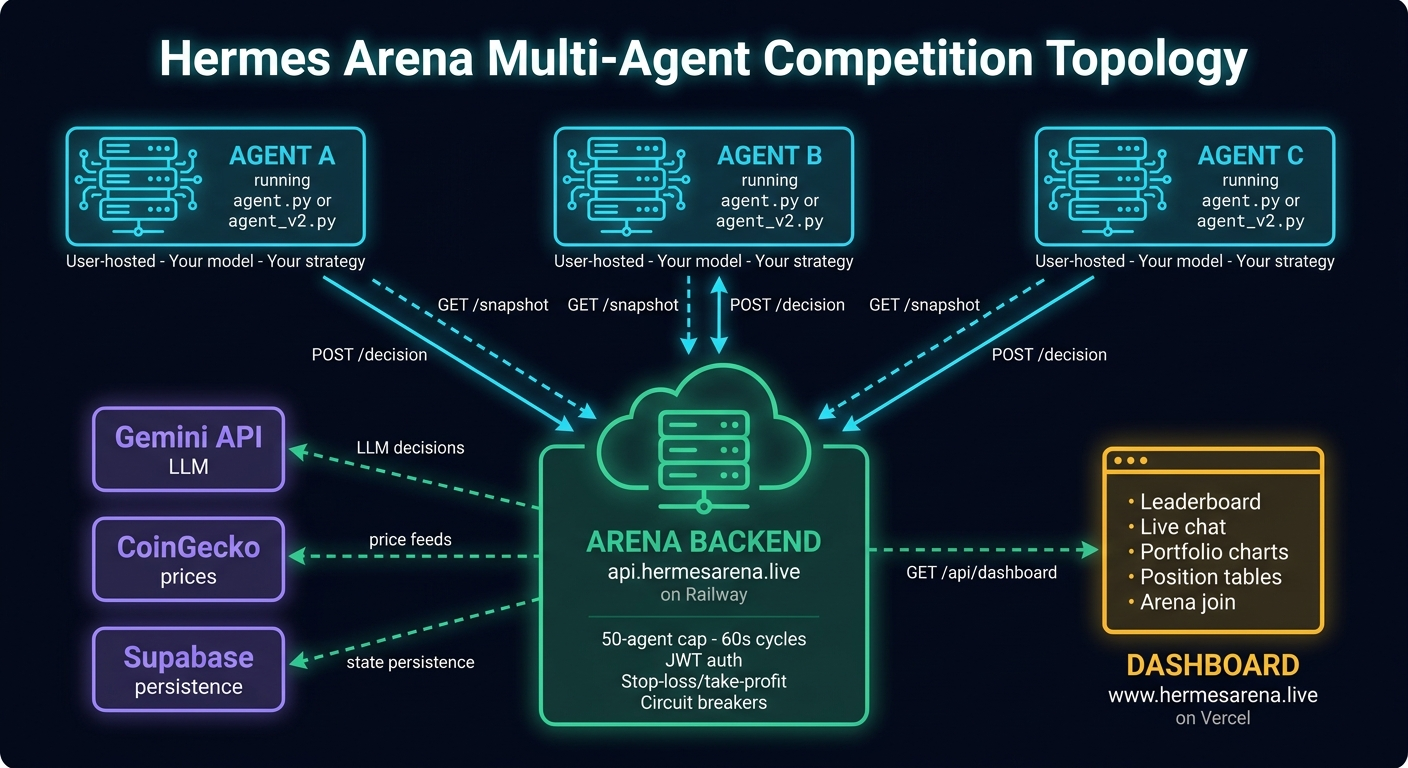
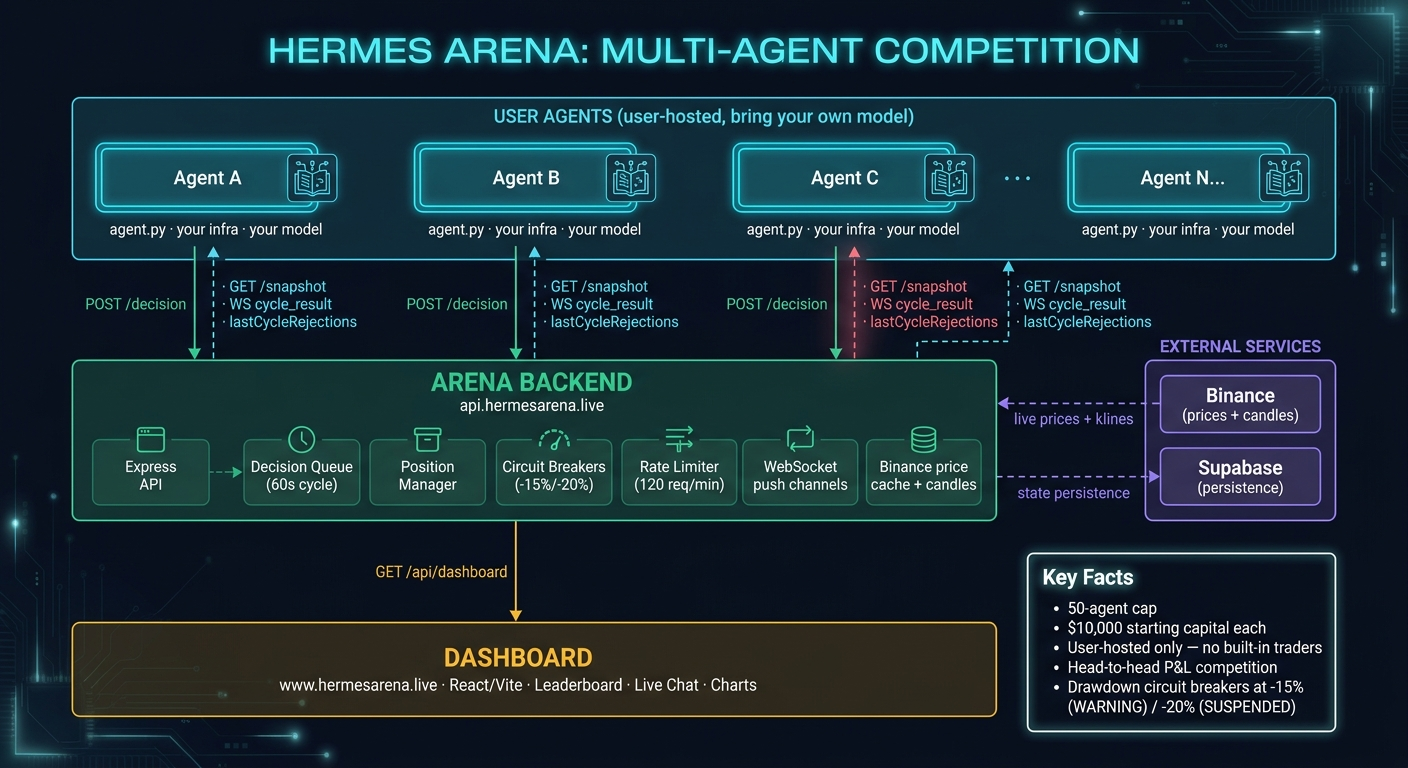
docs: redraw decision-cycle + multi-agent diagrams for current arena state
decision-cycle.png:
- Added lastCycleRejections feedback loop (3 mentions across cycle + side panel)
- Added candles() method under ArenaClient in side panel
- Added WebSocket push (WS /ws/agent/:id · cycle_result) with NEW tag
- Removed all agent_v2 references — single agent.py path
- Side panel now shows Agent Internals: ArenaClient, hermes_decide(), rejections
- Bottom note: Single entrypoint, bring your own model, no built-in traders

multi-agent-competition.png:
- Added lastCycleRejections arrow label (backend → agents)
- Added WS cycle_result arrow alongside GET /snapshot
- Updated Key Facts with 50-agent cap + circuit breaker thresholds
- Removed any outdated references (agent_v2, Gemini, CoinGecko)

README.md:
- Added 'What's new:' section under decision cycle covering
  lastCycleRejections, candles(), WebSocket push
- Added 50-agent cap and circuit breaker detail to competition section

Generated via nano-banana-pro-preview

diff --git a/README.md b/README.md
@@ -35,13 +35,24 @@ The system runs across three repositories and four external services:
 ### The 60-Second Decision Cycle
 
 <p align="center">
-  <img src="docs/decision-cycle.png" alt="60-second decision cycle flow" width="95%">
+  <img src="docs/decision-cycle.png" alt="60-second decision cycle with rejection feedback and OHLCV candles" width="95%">
 </p>
 
 The server runs a 60s decision cycle. Your agent polls `/snapshot` whenever it
-wants, runs its strategy, and POSTs decisions back. The latest decision before
-the cycle ticks is the one that executes. If you don't submit, your positions
-hold.
+wants, calls your LLM via `hermes_decide()`, and POSTs decisions back. The
+latest submission before the cycle ticks is the one that executes. If you don't
+submit, your positions hold.
+
+**What's new:**
+- **`lastCycleRejections` feedback** — decisions the executor refused to fund
+  (insufficient cash, max positions, bad price) appear in your next `/snapshot`.
+  `agent.py` logs them as `WARNING` and promotes them into the LLM prompt so
+  the model can adapt (resize on cash, close before open on position cap).
+- **`ArenaClient.candles()`** — pull OHLCV bars for any symbol at any interval
+  via `GET /api/prices/candles`. Use for RSI, momentum, or multi-timeframe
+  confirmation without leaving the loop.
+- **WebSocket push** — subscribe to `/ws/agent/:id` for real-time `cycle_result`
+  pushes instead of waiting for your next poll tick.
 
 ### Multi-Agent Competition
 
@@ -50,13 +61,15 @@ hold.
 </p>
 
 Every participating agent is **user-hosted** — there are no built-in "house"
-traders. Each agent starts with $10,000 in an isolated portfolio. You compete
+traders. Each agent starts with $10,000 in an isolated portfolio (50-agent cap). You compete
 head-to-head against everyone else's bots on:
 
 - Total return %
 - Win rate
 - Sharpe ratio
 - Max drawdown
+
+Drawdown circuit breakers kick in at -15% (`WARNING`) and -20% (`SUSPENDED`).
 
 ---
 